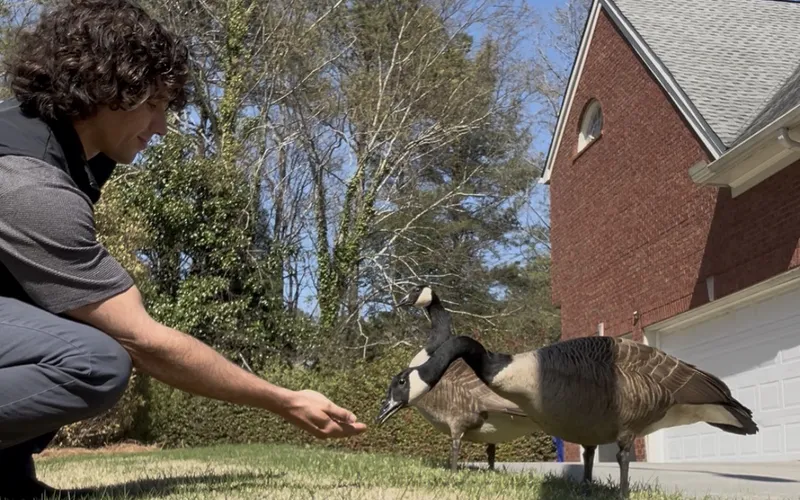
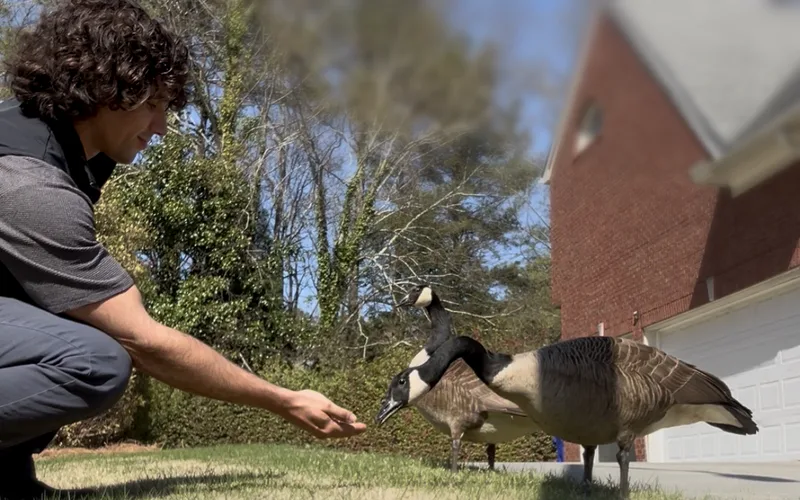
Fix two stale copy lines, and add depth of field to the About photo
The Halstead design notes still described the grayscale override that produced
the lo-fi stage, which was removed from the process documents. Cut the clause.

The About paragraph rendered "my own product, Clox.Outside of work" with no
space. The newline between the SHOW_CLOX expression and the next line is
whitespace adjacent to an expression, so it was dropped rather than collapsed
to a space. An explicit {' '} fixes it, and it is correct in both states of
the flag: verified by building with SHOW_CLOX false as well as true.

Blur the background of the About photo so the subject separates from it. The
mask covers the person and both geese and is feathered heavily, and the blur
strength also rises with height, since the ground recedes upward in this frame
and the house and trees are the furthest things in it. Two blur levels are
blended by that map rather than one flat blur, so the falloff is gradual.
Contrast and saturation are lifted slightly inside the mask only.

Changed region(s): [[0.2812, 0.0, 1.0, 0.39]]

diff --git a/src/data/landing-pages.ts b/src/data/landing-pages.ts
@@ -224,7 +224,7 @@ export const landingPages: LandingPage[] = [
         'Petrol blue, warm cream and safety yellow, with a hot orange used only on the emergency route. Yellow marks the next action anywhere on the page, so a visitor who learns the orange once can find the emergency route again without reading.',
         'One theme on purpose. A contractor\'s page is read in daylight on a phone in a plant room, so the page stays light whatever the visitor\'s system is set to.',
         'Archivo set at a width of 112 for display, IBM Plex Sans for text and IBM Plex Mono for labels and every figure. Four sizes and that is the whole scale.',
-        'Every image slot pairs a photograph with a drawing: the roof plan over the hero, the building section under the plant room. The drawings sit on their own ink tokens, which is what lets the lo-fi take the whole thing back to gray with one override.',
+        'Every image slot pairs a photograph with a drawing: the roof plan over the hero, the building section under the plant room. The drawings sit on their own ink tokens.',
         'Dark appears twice, on the hero and on the footer. Everything between them alternates white and cream, and every band sits on one of three padding steps.',
         'Contrast was computed from the tokens rather than estimated: 14.8 to 1 for headings on the page ground, 11.7 to 1 for text on the yellow button, 12.5 to 1 for the headline on the dark ground.',
       ],
